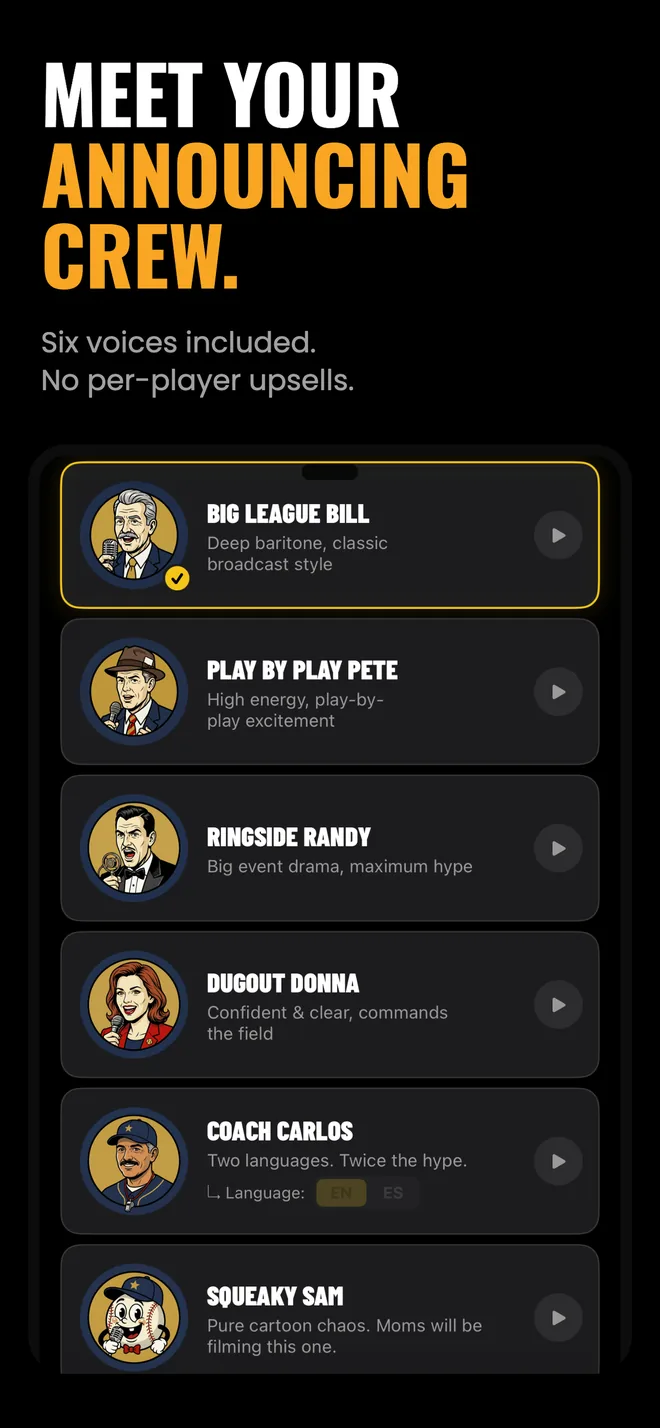
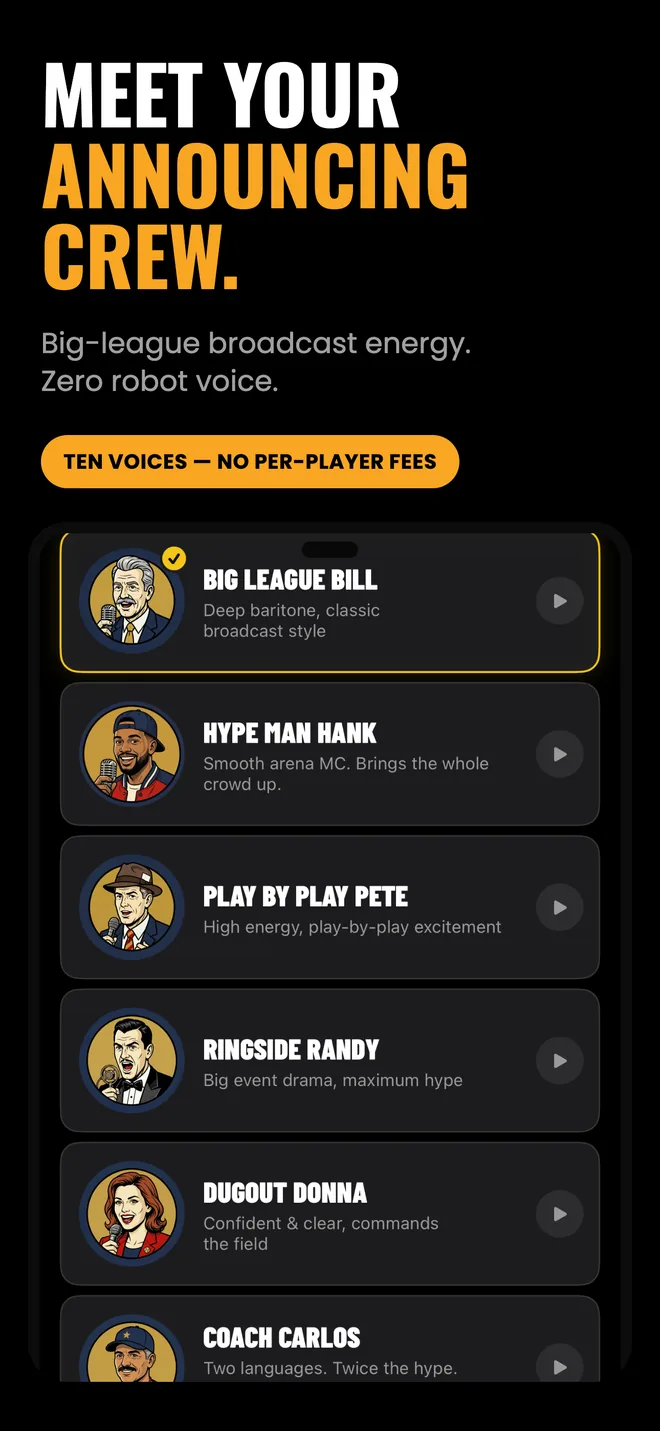
Eight premium voices for 1.6.0: Hype Man Hank and Pumpkin Phil
Copy on the homepage and partners page, plus the v1.6 voices screenshot.
Hold until 1.6.0 is live on the App Store.

Changed region(s): [[0.0606, 0.2157, 0.9091, 0.986]]

diff --git a/index.html b/index.html
@@ -3,7 +3,7 @@
 <head>
   <meta charset="UTF-8" />
   <meta name="viewport" content="width=device-width, initial-scale=1.0" />
-  <meta name="description" content="Walk-up songs and stadium-style PA announcements for youth baseball &amp; softball. AI announcer voices, parents pick songs from a link, works offline. Free on iPhone, iPad and iPhone Duo." />
+  <meta name="description" content="Walk-up songs and stadium-style PA announcements for youth baseball &amp; softball. 8 AI announcer voices, parents pick songs from a link, works offline. Free on iPhone, iPad and iPhone Duo." />
   <title>Walk-Up Hype — Walk-Up Songs &amp; PA Announcer for Youth Baseball &amp; Softball</title>
   <link rel="canonical" href="https://walkuphype.com/" />
   <link rel="icon" type="image/png" href="assets/icon.png" />
@@ -104,8 +104,8 @@
 
         <div class="feature-card">
           <span class="feature-icon">🎙</span>
-          <h3>6 Premium AI Voices</h3>
-          <p>Pick your announcer. Big-league energy for every kid at the plate.</p>
+          <h3>8 Premium AI Voices</h3>
+          <p>Pick your announcer, from a big-league baritone to a bilingual coach to a jack-o'-lantern storyteller.</p>
         </div>
 
         <div class="feature-card">
@@ -168,7 +168,7 @@
           <p class="pricing-price">$9.99 <span>/ year</span></p>
           <p class="pricing-trial">7-day free trial &middot; cancel anytime</p>
           <ul class="pricing-features">
-            <li><span class="gold">✦</span> 6 stadium-quality AI announcer voices</li>
+            <li><span class="gold">✦</span> 8 stadium-quality AI announcer voices</li>
             <li><span class="gold">✦</span> Unlimited teams &amp; players</li>
             <li><span class="gold">✦</span> Support a baseball dad who codes between innings</li>
           </ul>
@@ -192,7 +192,7 @@
 
         <details class="faq-item">
           <summary class="faq-q">What do I get with Premium?</summary>
-          <p class="faq-a">Six stadium-quality PA announcer voices: Big League Bill, Play by Play Pete, Ringside Randy, Dugout Donna, Coach Carlos (bilingual English/Spanish), and Squeaky Sam. Unlimited teams and players. A 7-day free trial, then $9.99/year. That's it. No hidden tiers, no per-feature unlocks. If you're running multiple teams or you want your kids to sound like they're walking up at a real ballpark, Premium is worth every penny.</p>
+          <p class="faq-a">Eight premium announcer voices: Big League Bill, Hype Man Hank, Play by Play Pete, Ringside Randy, Dugout Donna, Coach Carlos (bilingual English/Spanish), Squeaky Sam, and Pumpkin Phil. Unlimited teams and players. A 7-day free trial, then $9.99/year. That's it. No hidden tiers, no per-feature unlocks. If you're running multiple teams or you want your kids to sound like they're walking up at a real ballpark, Premium is worth every penny.</p>
         </details>
 
         <details class="faq-item">
@@ -202,7 +202,7 @@
 
         <details class="faq-item">
           <summary class="faq-q">What does the free announcer voice sound like?</summary>
-          <p class="faq-a">Honest answer: the default free voice is rough. It works, but it sounds like a robot reading a spreadsheet. Here's the thing though: there's a second free voice called Minor League Mike that's a real step up. It's still free, just requires a one-time download in your iPhone's Accessibility settings. <a href="minor-league-mike.html">We walk you through it step by step here.</a> If you want to actually impress parents on day one, Minor League Mike is the move. Premium is still the big leagues, 6 custom PA voices that sound like an actual stadium, but free isn't a dead end.</p>
+          <p class="faq-a">Honest answer: the default free voice is rough. It works, but it sounds like a robot reading a spreadsheet. Here's the thing though: there's a second free voice called Minor League Mike that's a real step up. It's still free, just requires a one-time download in your iPhone's Accessibility settings. <a href="minor-league-mike.html">We walk you through it step by step here.</a> If you want to actually impress parents on day one, Minor League Mike is the move. Premium is still the big leagues, 8 custom PA voices that sound like an actual stadium, but free isn't a dead end.</p>
         </details>
 
         <details class="faq-item">

diff --git a/partners.html b/partners.html
@@ -600,7 +600,7 @@
         <div class="feature-text">
           <strong>Your kid gets a real PA announcement</strong>
           <span>Their name, number, and position called out just like the pros.
-            Six neural announcer voices to pick from, each one sounds like
+            Eight neural announcer voices to pick from, each one sounds like
             the real thing.</span>
         </div>
       </div>
